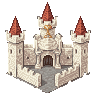
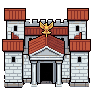
Rome: castle and hills dwelling on the object route

diff --git a/docs/ART-WORKLIST.md b/docs/ART-WORKLIST.md
@@ -34,12 +34,12 @@ four boat frames rather than one set per facing.
 | `art/tiles/artifact_ring.png` | a golden ring resting on a small stone plinth, radiating light, standing on short dry Mediterranean grass, the grass filling the whole picture right to every edge behind it |  |
 | `art/tiles/bridge_h.png` | a Roman stone arch bridge spanning left to right, standing on short dry Mediterranean grass, the grass filling the whole picture right to every edge behind it |  |
 | `art/tiles/bridge_v.png` | a Roman stone arch bridge spanning top to bottom, standing on short dry Mediterranean grass, the grass filling the whole picture right to every edge behind it |  |
-| `art/tiles/castle.png` | an isolated cut-out game sprite of a Roman fortress, gleaming white marble walls in ashlar courses, square corner towers with flat red tile roofs, crenellated battlements, a monumental front gatehouse framed by tall Roman columns under a triangular pediment, a heavy iron portcullis lowered in the arched gateway, a golden legionary eagle standard above the gate, seen from a high angle, drawn without any ground plane: the lowest row of wall stones is the bottom of the sprite and only the flat magenta background lies below and around it, the whole fortress complete and well inside the picture, nothing touching or cut off by any edge, solid magenta background |  |
+| `art/tiles/castle.png` | an isolated cut-out game sprite of a small compact Roman fortress, gleaming white marble walls in ashlar courses, square corner towers with flat red tile roofs, crenellated battlements, a monumental gatehouse framed by columns under a triangular pediment, a golden legionary eagle standard above the gate, seen from the front and above with the gate facing the viewer, a freestanding building with no ground under it: the lowest row of stones is the bottom of the sprite and only the flat magenta background shows below and around it, the whole building complete and well inside the picture with empty background on every side, nothing touching or cut off by any edge, solid magenta background (rd_pro__topdown, seed 7162, no reference) |  |
 | `art/tiles/chest.png` | a Roman strongbox, an iron-banded wooden arca with bronze studs, lid closed, standing on short dry Mediterranean grass, the grass filling the whole picture right to every edge behind it |  |
 | `art/tiles/desert.png` | dry desert sand seen from directly above, pale tan ground with many short streaks of darker tan and near-white in clear contrast, the same everywhere (rd_tile__single_tile 48x48 laid 2x2, seed 3442) |  |
 | `art/tiles/dwelling_dungeon.png` | an isolated cut-out game sprite of a Roman columbarium crypt entrance, a stone doorway flanked by funerary urns with steps going down, seen from the front and above with the gate facing the viewer, a freestanding building with no ground under it: the lowest row of stones is the bottom of the sprite and only the flat magenta background shows below and around it, the whole building complete and well inside the picture with empty background on every side, nothing touching or cut off by any edge, solid magenta background (rd_pro__topdown, seed 7201, no reference) |  |
 | `art/tiles/dwelling_forest.png` | an isolated cut-out game sprite of a small stone shrine and altar in a sacred grove, a few dark trees close around it, seen from the front and above with the gate facing the viewer, a freestanding building with no ground under it: the lowest row of stones is the bottom of the sprite and only the flat magenta background shows below and around it, the whole building complete and well inside the picture with empty background on every side, nothing touching or cut off by any edge, solid magenta background (rd_pro__topdown, seed 7181, no reference) |  |
-| `art/tiles/dwelling_hills.png` | a cave mouth in a rocky hillside with a carved stone lintel, standing on short dry Mediterranean grass, the grass filling the whole picture right to every edge behind it |  |
+| `art/tiles/dwelling_hills.png` | an isolated cut-out game sprite of a cave mouth in a small rocky mound with a carved stone lintel over the opening, seen from the front and above with the gate facing the viewer, a freestanding building with no ground under it: the lowest row of stones is the bottom of the sprite and only the flat magenta background shows below and around it, the whole building complete and well inside the picture with empty background on every side, nothing touching or cut off by any edge, solid magenta background (rd_pro__topdown, seed 7192, no reference) |  |
 | `art/tiles/dwelling_plains.png` | an isolated cut-out game sprite of a Roman villa rustica farmstead, a low whitewashed farmhouse with a red tiled roof, a haystack and a wooden cart in the open yard beside it, seen from the front and above with the gate facing the viewer, a freestanding building with no ground under it: the lowest row of stones is the bottom of the sprite and only the flat magenta background shows below and around it, the whole building complete and well inside the picture with empty background on every side, nothing touching or cut off by any edge, solid magenta background (rd_pro__topdown, seed 7172, no reference) |  |
 | `art/tiles/forest.png` | dense forest canopy seen from directly above, many tiny round tree tops of mid green over very dark green shadow, the same everywhere (rd_tile__single_tile 48x48 laid 2x2, seed 3341) |  |
 | `art/tiles/grass.png` | muted moss green grass seen from directly above, dull and slightly grey with only a few short specks of paler olive and dark bottle green, low contrast, the same everywhere (rd_tile__single_tile 48x48 laid 2x2, seed 3411) |  |

diff --git a/docs/ART-PIPELINE.md b/docs/ART-PIPELINE.md
@@ -155,8 +155,7 @@ and record both prompts in `ART-WORKLIST.md`.
     route (seed 3107), kept because the tile style drew water as a bevelled
     block face with a lit rim on two runs with different wording. It is flat,
     seamless and approved, so it stays.
-- **Object tiles** (the per-zone towns; the 1x1 castle is an older
-  `rd_plus__low_res` placeholder to be redone on this route) — `rd_pro__topdown`,
+- **Object tiles** (the per-zone towns, the castle, the four dwellings) — `rd_pro__topdown`,
   96x96, `figure: false`, `remove_bg: true` with the magenta background named in
   the prompt, **no reference image**. Settled on 2026-09-05 after an engine test
   on one prompt across `rd_plus__low_res`, `rd_tile__tile_object`,
